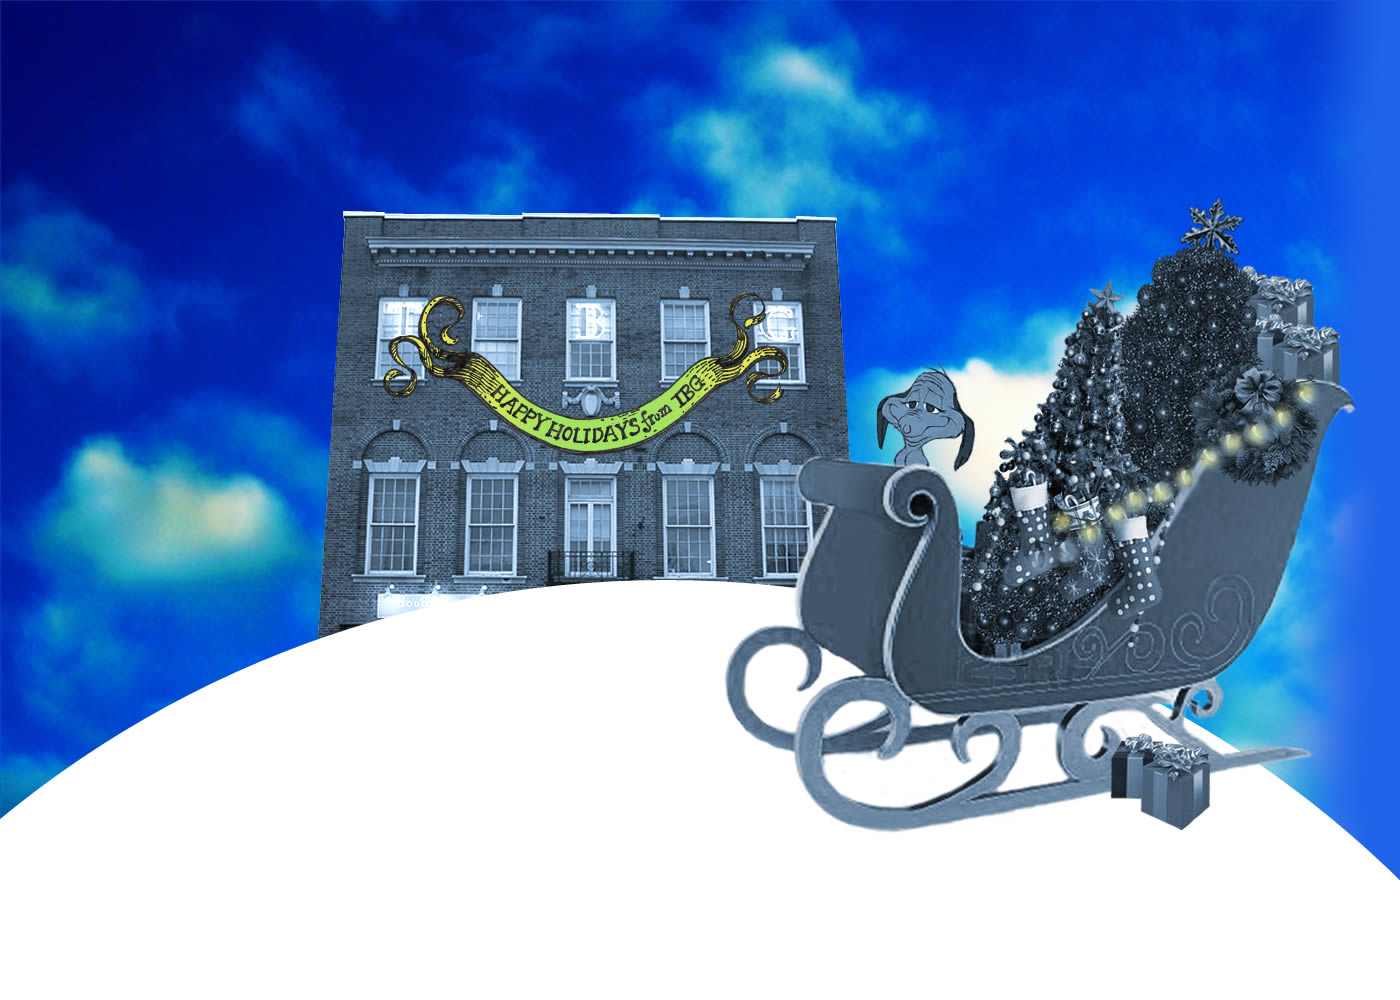
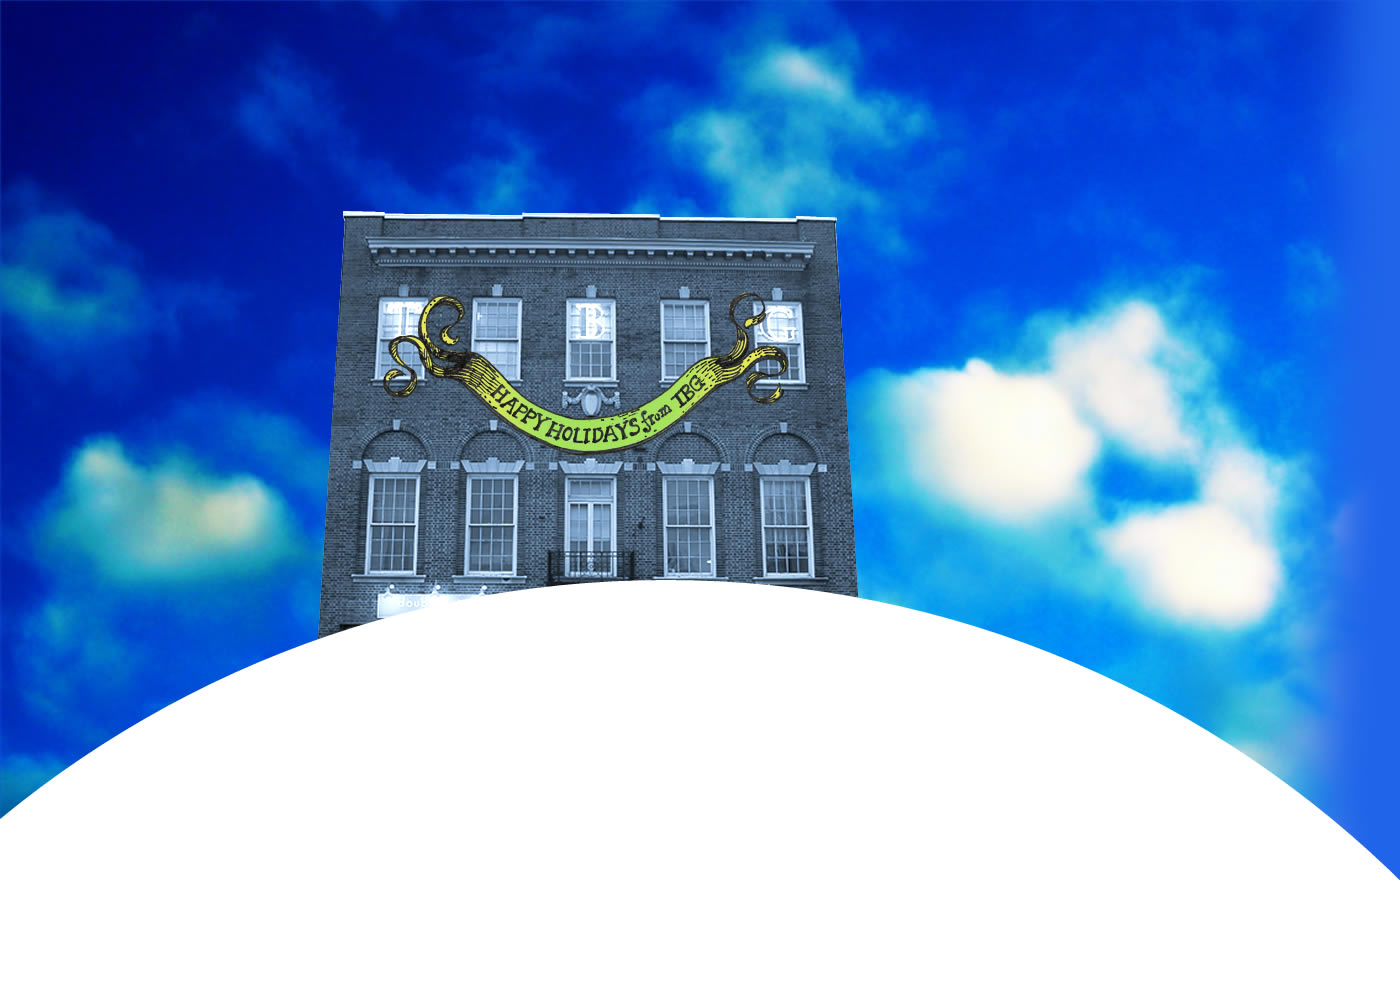
updating finale

Changed region(s): [[0.5221, 0.186, 0.9829, 0.837]]

diff --git a/css/main.css b/css/main.css
@@ -956,9 +956,11 @@ audio { display: none; }
 
 /*=== Scene 15  - Finale ===== */
 
-#curtain { position: absolute; top: 0; left: 0; width: 1376px; height: 476px; background: url('../img/scene-finale/curtains.png') no-repeat; }
+#curtain { position: absolute; bottom: 500px; left: 0; width: 1376px; height: 476px; background: url('../img/scene-finale/curtains.png') no-repeat; }
+#mckayla { position: absolute; bottom: -677px; left: 50%; width: 428px; height: 677px; background: url('../img/scene-finale/mckayla.png') no-repeat; margin-left:-214px;  }
+#sleigh { position: absolute; bottom: 191px; left: 724px; width: 633px; height: 647px; background: url('../img/scene-finale/sleigh.png') no-repeat;   }
 
-#bells { position: absolute; top: 0; left: 0; width: 1140px; height: 500px; background: url('../img/scene-finale/bells-sprite.png') no-repeat; background-position: -2282px -2004px; }
+#bells { position: absolute; bottom: 500px; left: 0; width: 1140px; height: 500px; background: url('../img/scene-finale/bells-sprite.png') no-repeat; background-position: -2282px -2004px; }
 #bells.bells1 { width: 1140px; height: 500px; background-position: -2282px -2004px; }
 #bells.bells2 { width: 1140px; height: 500px; background-position: -2282px -1503px; }
 #bells.bells3 { width: 1140px; height: 500px; background-position: -2282px -1002px; }

diff --git a/js/main.js b/js/main.js
@@ -816,6 +816,8 @@ window.onload = function() {
 			{id:document.getElementById("tbg"), start: 15, end: 15.05, x:1, y: 0, type:"opacity"},
 			{id:document.getElementById("s15t1"), start: 15.0, end: 15.05, x:1, y: 0, type:"opacity"},
 			{id:document.getElementById("s15t1"), start: 15.45, end: 15.58, x:-1, y: 0, type:"opacity"},
+			{id:document.getElementById("mckayla"), start: 15.85, end: 15.92, x:0, y: -677, type:"translate"},
+			
 			
 			{id:sections[14], start: 15.45, end: 15.5, x: 1, y: 0, type:"opacity"},
 			

diff --git a/index.html b/index.html
@@ -205,7 +205,9 @@
 		  <div id="s14t6"></div>
 			<div id="curtain"></div>
 			<div id="bells"></div>
+			<div id="sleigh"></div>
 			<div id="tbg"></div>
+			<div id="mckayla"></div>
 		  </div>
 		</section>
 		
